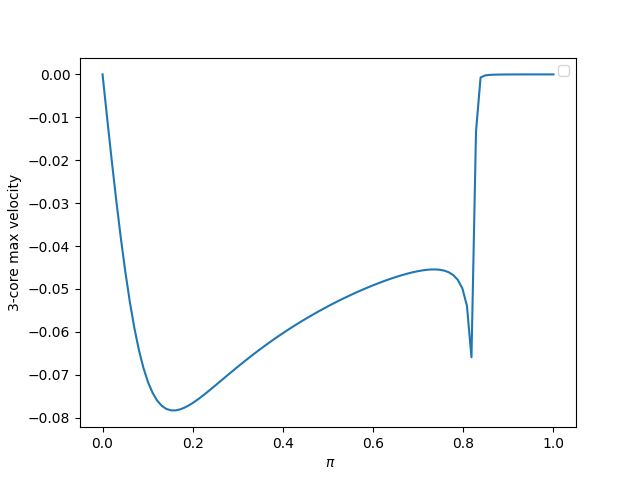
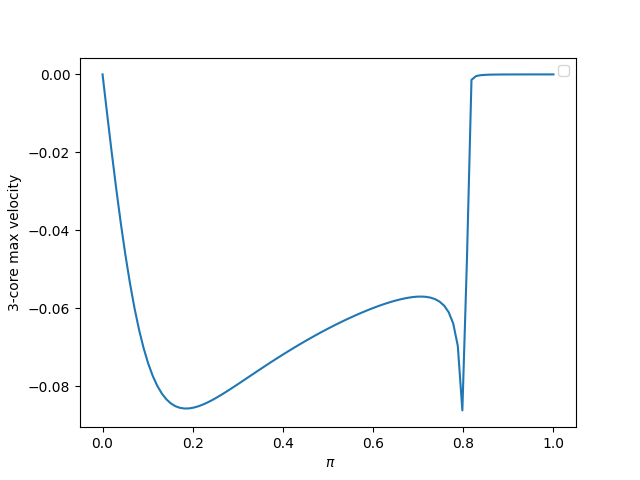
error in a dynamical factor modified. Figures updated

diff --git a/code/q_core.py b/code/q_core.py
@@ -11,7 +11,7 @@ def velocities(p1,p2,p3,p4):
     Vp4 = - p4*(1-p_sup**4)
     Vp3 = - p3 * (1-p_sup**3) + 4*p4 * p_inf * p_sup**3  
     Vp2 = - p2 + 6*p4 * p_inf**2 * p_sup**2 + 3*p3*p_inf*p_inf**2
-    Vp1 = - p1 + 4*p4 * p_inf**3 * p_sup + 3*p3 * p_inf**2* p_sup + 4*p2 * p_inf * p_sup
+    Vp1 = - p1 + 4*p4 * p_inf**3 * p_sup + 3*p3 * p_inf**2* p_sup + 2*p2 * p_inf * p_sup
     Vp0 =   p1 + p2 + p3 * p_inf**3 + p4* p_inf**4
 
     return Vp0,Vp1,Vp2,Vp3,Vp4
